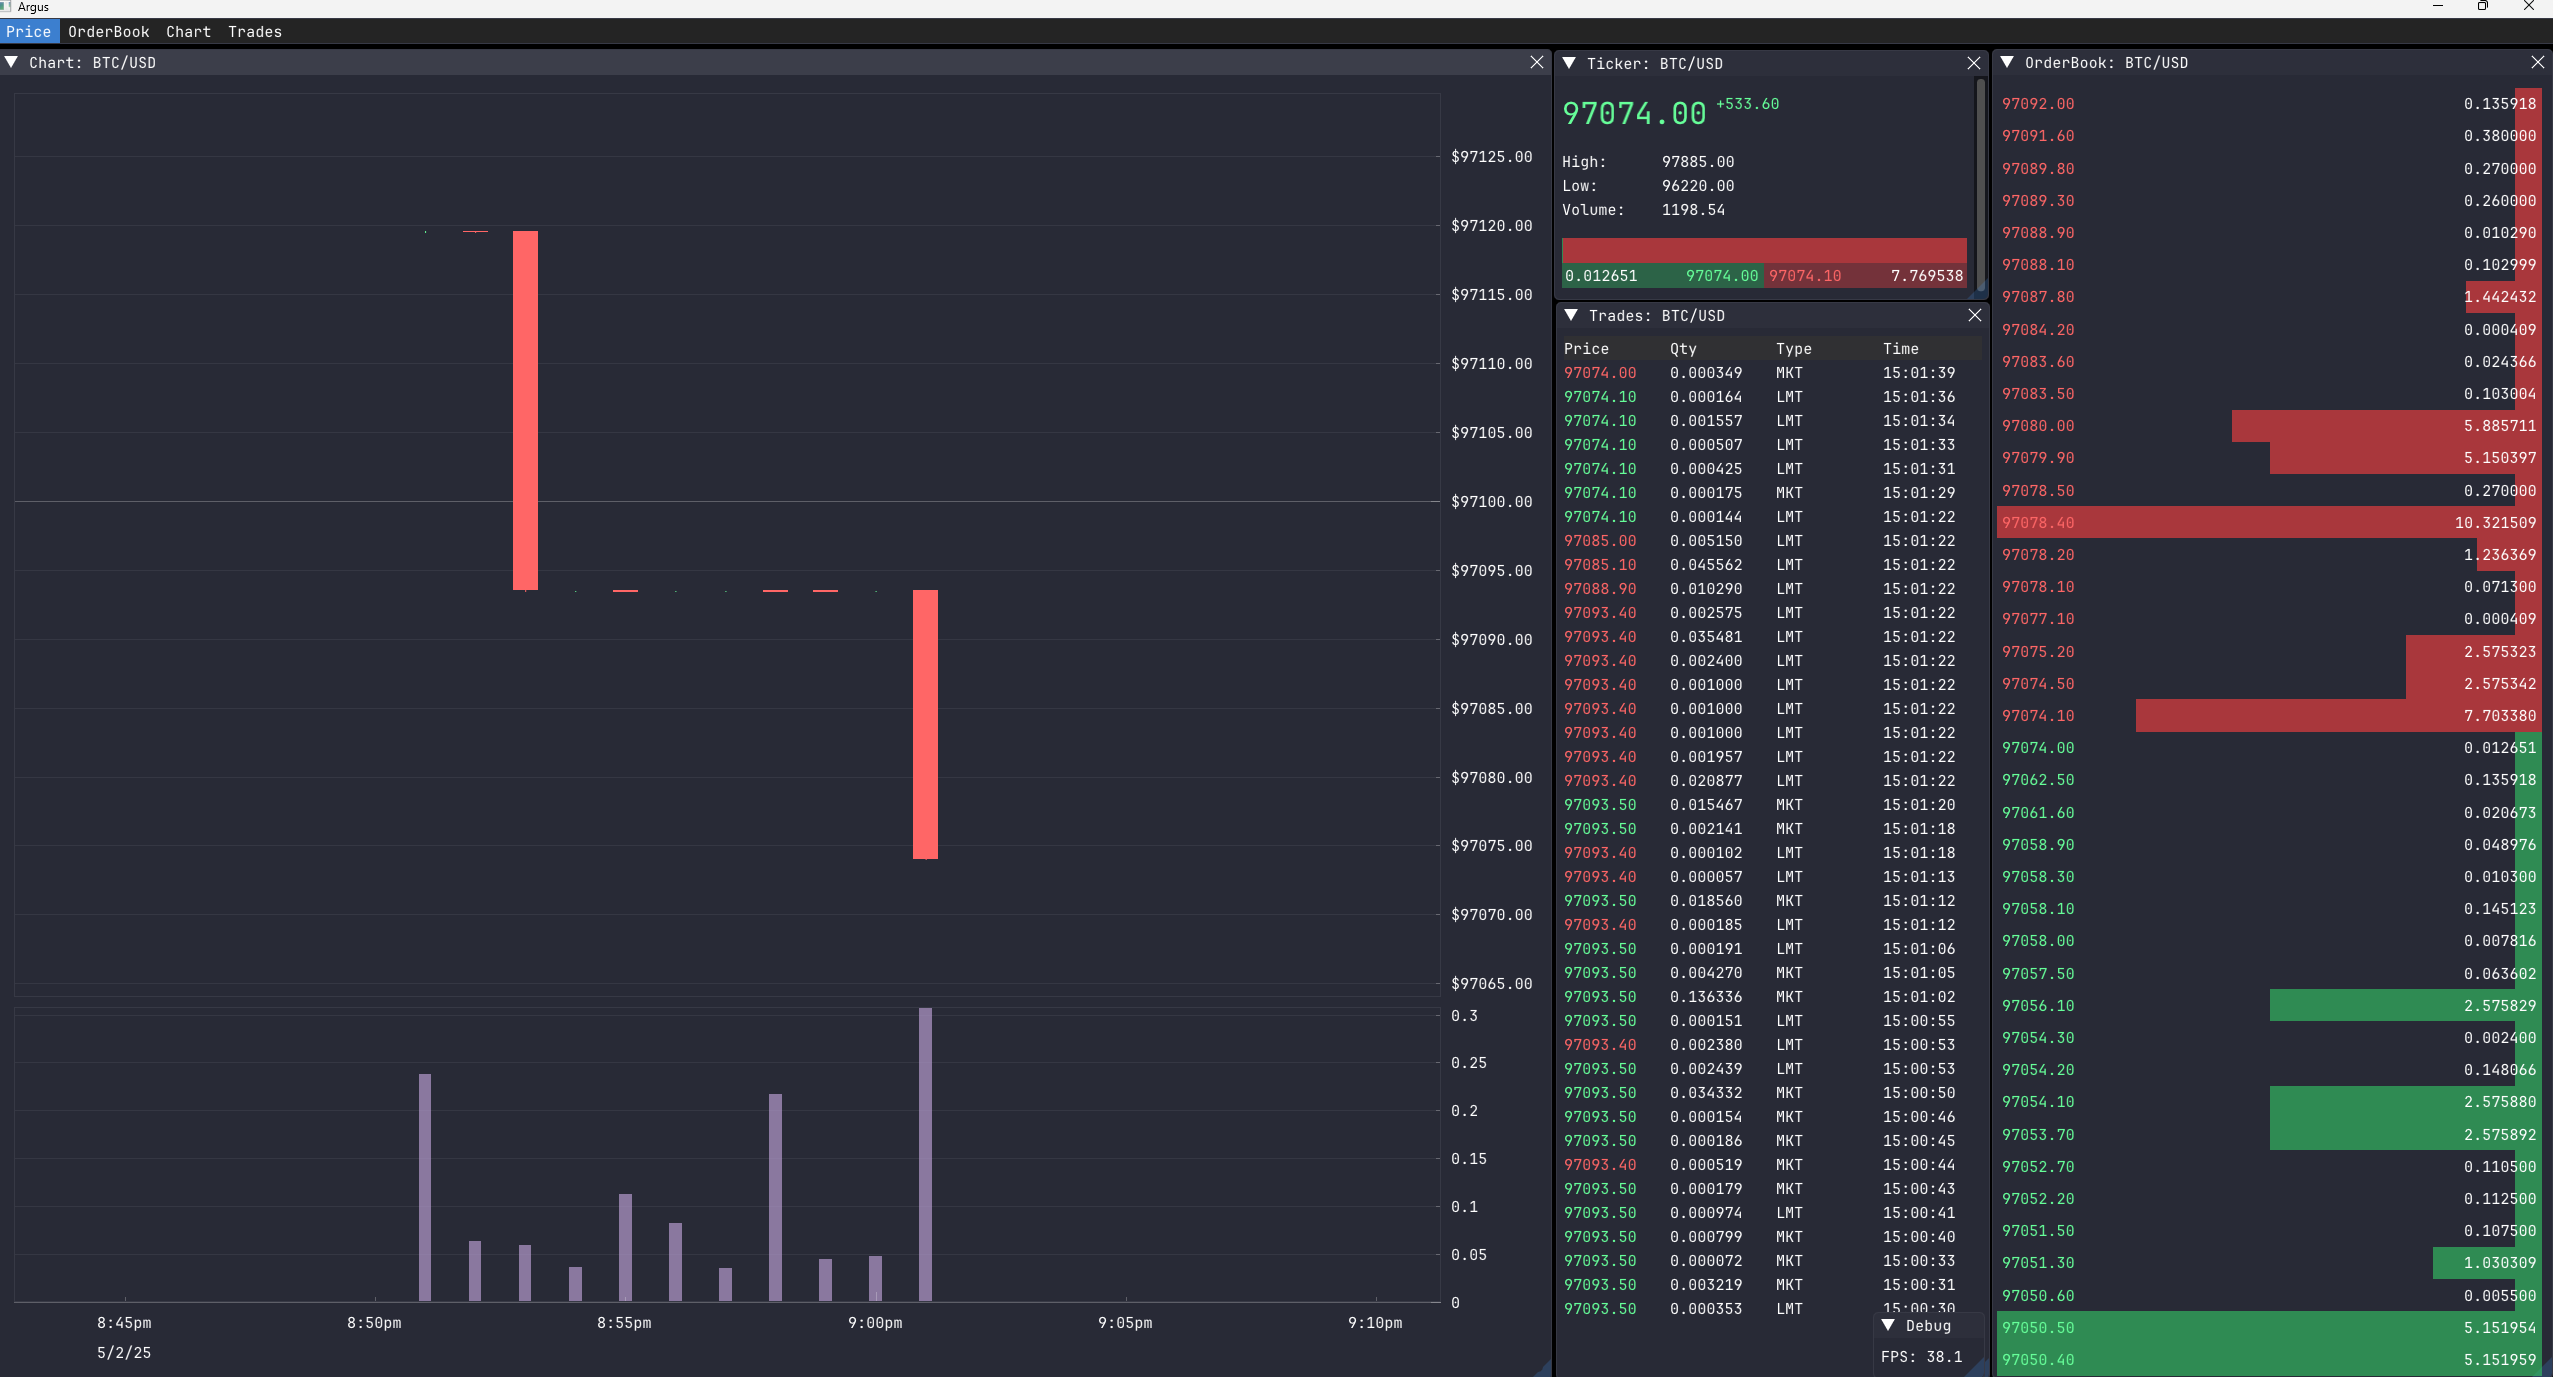
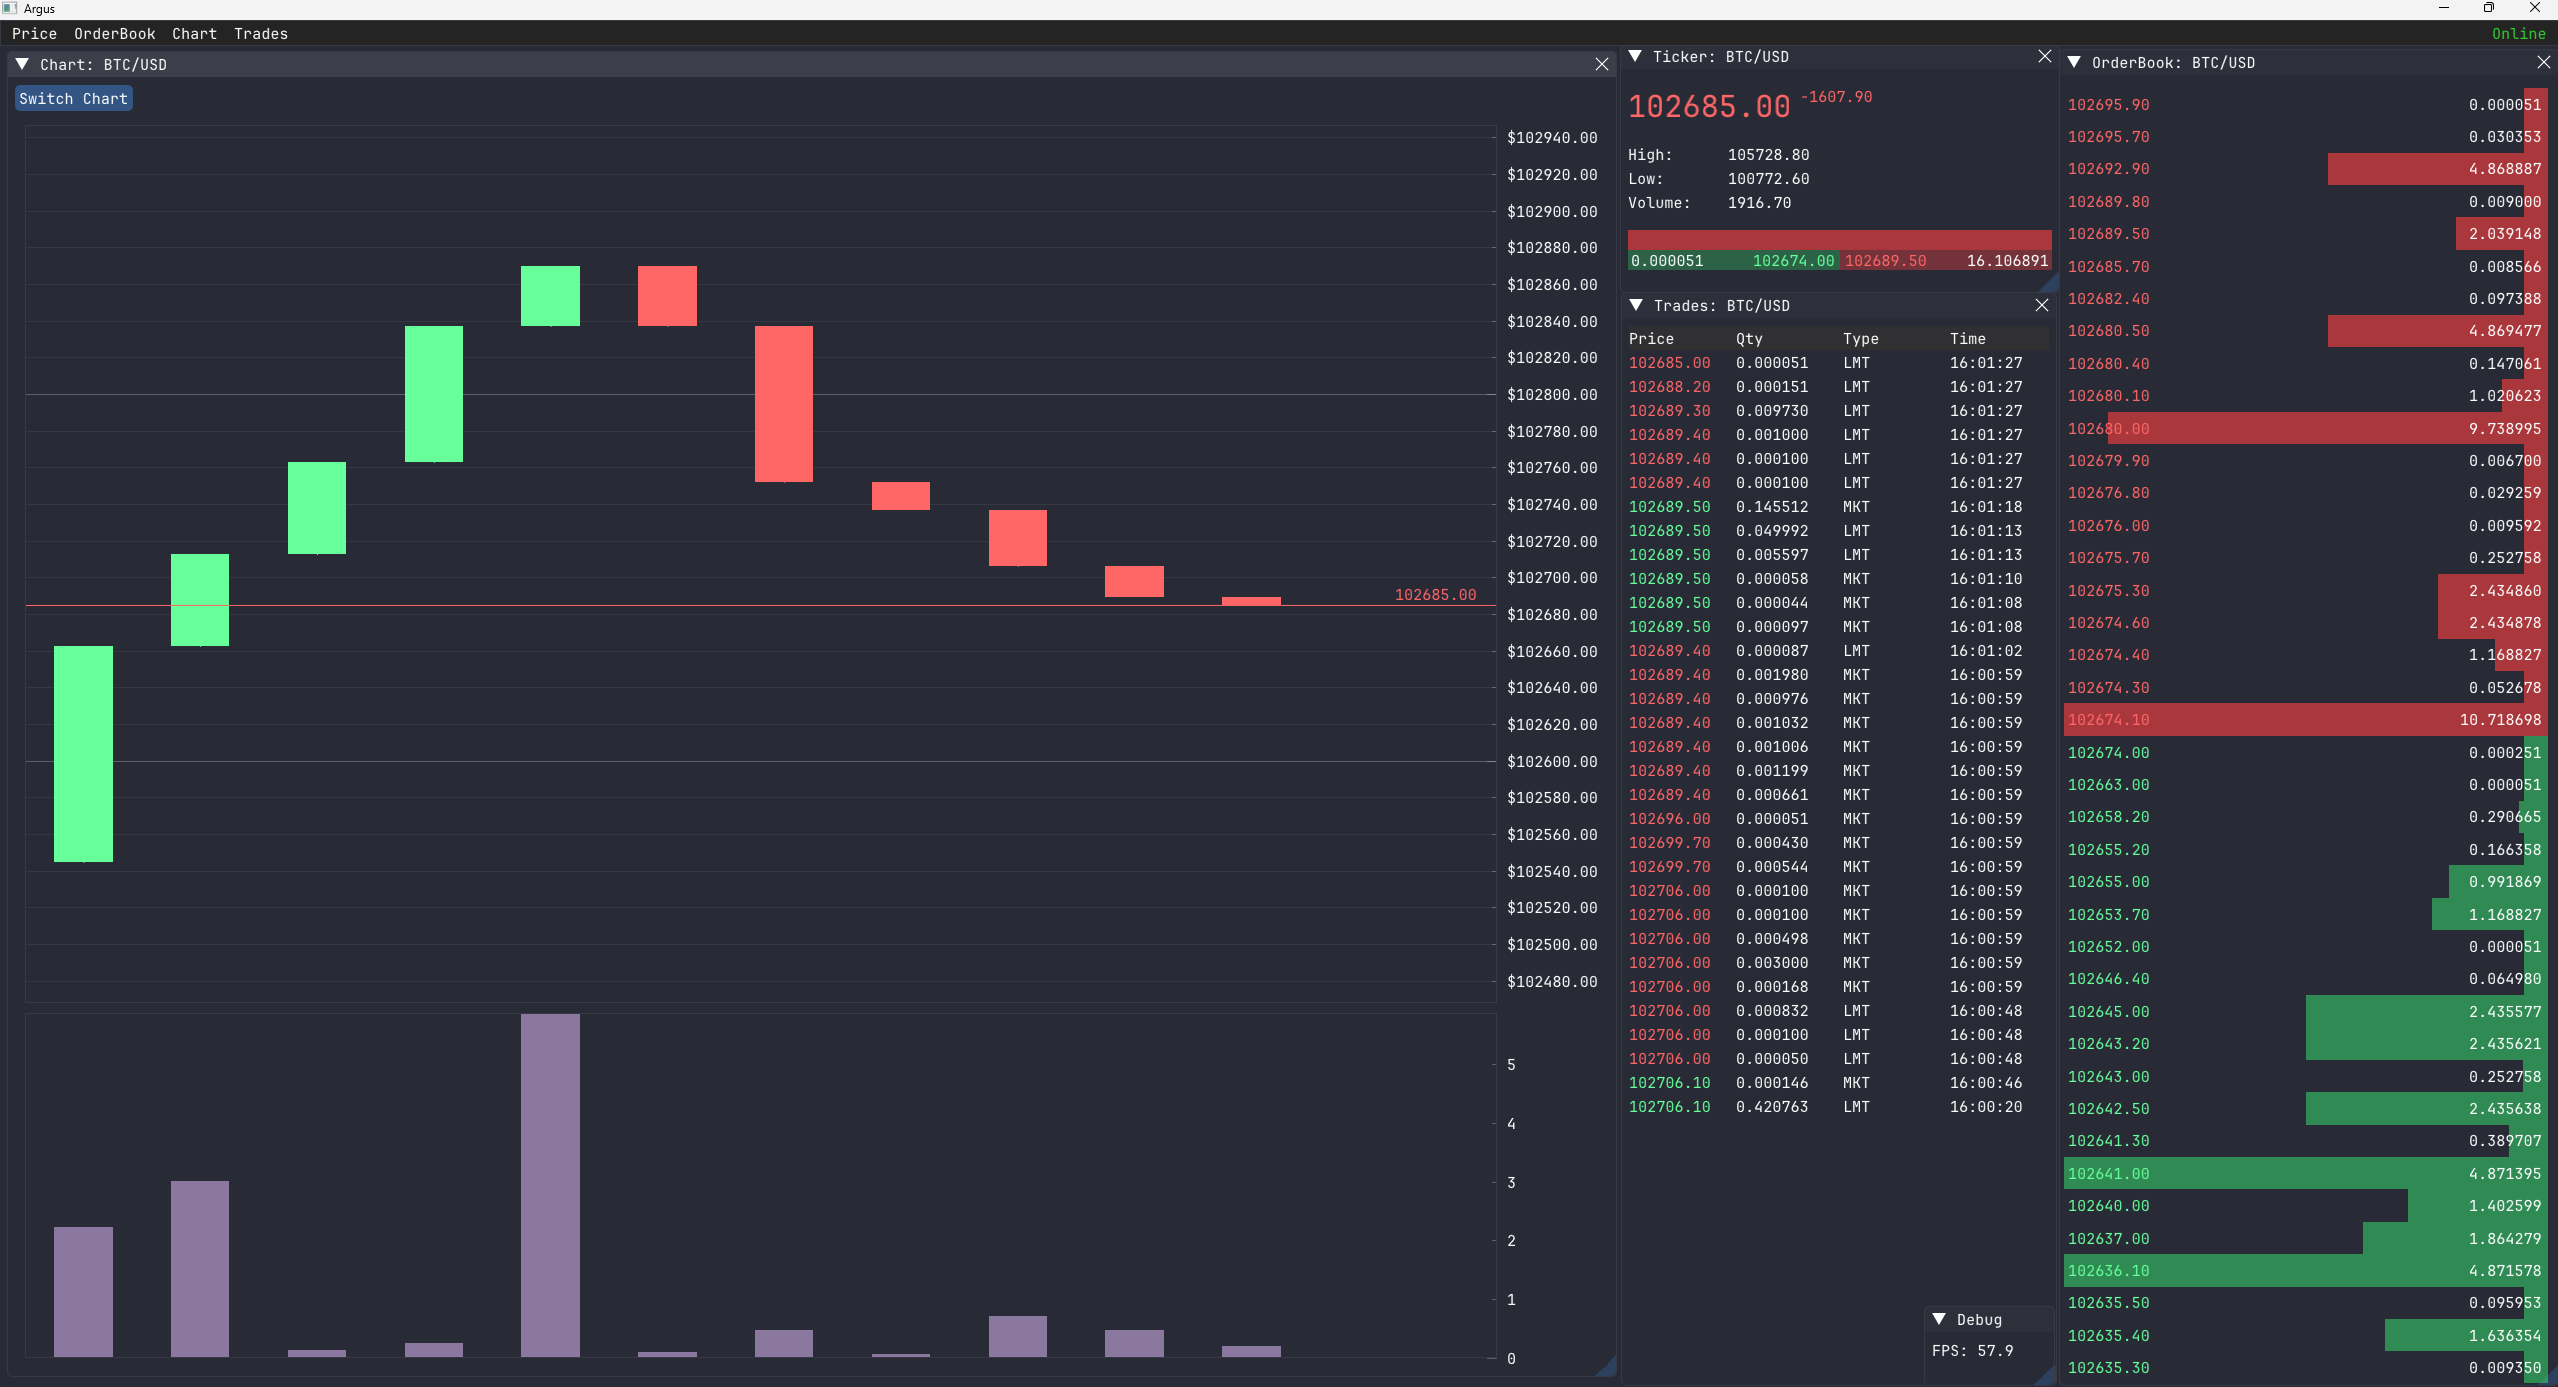
added line chart and user can now toggle between line and candle. also updated image

diff --git a/GUI/src/Chart.cpp b/GUI/src/Chart.cpp
@@ -37,6 +37,88 @@ void Chart::draw() {
 
   ImGui::SetNextWindowSize(ImVec2(800, 690), ImGuiCond_FirstUseEver);
   ImGui::Begin(window_name.c_str(), &show);
+  if (ImGui::Button("Switch View")) {
+    show_candles = (show_candles == true) ? false : true;
+  }
+
+  if (show_candles) {
+    drawCandles();
+  } else {
+    drawLine();
+  }
+  ImGui::End();
+}
+
+void Chart::drawLine() {
+  std::vector<double> price_y(candles.size(), 0);
+  std::vector<double> volume_y(candles.size(), 0);
+  std::vector<double> time_x(candles.size(), 0);
+
+  double width = .25;
+  double half_width = width;
+  half_width = (candles.size() > 1) ? ((candles.begin()->first - std::next(candles.begin(), 1)->first) * width) : width;
+
+  int index = 0;
+  for (const auto&[time, candle] : candles) {
+    price_y[index] = candle.close;
+    volume_y[index] = candle.volume;
+    time_x[index] = time;
+    index++; 
+  }
+
+  if (ImPlot::BeginSubplots("##Stocks", 2, 1, ImVec2(-1,-1),ImPlotSubplotFlags_LinkCols | ImPlotSubplotFlags_NoTitle, ratios)) {
+
+    ImPlotStyle& style = ImPlot::GetStyle();
+    style.Colors[ImPlotCol_PlotBg] = background_color;
+    style.Colors[ImPlotCol_Crosshairs] = ImVec4(1,1,1,0.5f);
+
+    style.PlotPadding = ImVec2(5, 5);
+    style.LabelPadding = ImVec2(10, 10);
+    style.LegendPadding = ImVec2(0, 0);
+    style.LegendInnerPadding = ImVec2(0, 0);
+    style.MousePosPadding = ImVec2(0, 0);
+    style.AnnotationPadding = ImVec2(0, 0);
+    style.FitPadding = ImVec2(0, 0);
+
+    if (ImPlot::BeginPlot("##Graph", ImVec2(-1,-1), ImPlotFlags_NoFrame | ImPlotFlags_Crosshairs)) {
+
+      ImDrawList* draw_list = ImPlot::GetPlotDrawList();
+      ImPlot::SetupAxes(0,0,ImPlotAxisFlags_NoGridLines | ImPlotAxisFlags_NoTickMarks | ImPlotAxisFlags_NoTickLabels, ImPlotAxisFlags_Opposite);
+
+      ImPlot::SetupAxisLimits(ImAxis_X1, time_x[0], time_x.back());
+      ImPlot::SetupAxisFormat(ImAxis_Y1, "$%.2f");
+      ImPlot::SetupAxisFormat(ImAxis_X1, TimeFormatter);
+
+      if (ImPlot::BeginItem("##Price Chart")) {
+        ImVec4 fill_color = ImVec4(0.2f, 0.4f, 1.0f, 0.1f);
+        ImPlot::PushStyleColor(ImPlotCol_Fill, fill_color);
+        ImPlot::PlotLine("##Line Chart", time_x.data(), price_y.data(), price_y.size());
+        ImPlot::PlotShaded("##Shaded Chart", time_x.data(), price_y.data(), price_y.size(), -INFINITY);
+        ImPlot::PopStyleColor();
+        ImPlot::EndItem();
+      }
+      
+      ImPlot::EndPlot();
+    }
+
+    if (ImPlot::BeginPlot("##Volume Plot", ImVec2(-1,-1), ImPlotFlags_Crosshairs)) {
+      ImPlot::SetupAxis(ImAxis_X1, nullptr, ImPlotAxisFlags_NoGridLines | ImPlotAxisFlags_RangeFit | ImPlotAxisFlags_NoTickMarks | ImPlotAxisFlags_NoTickLabels);
+      ImPlot::SetupAxis(ImAxis_Y1, nullptr, ImPlotAxisFlags_NoGridLines |  ImPlotAxisFlags_RangeFit | ImPlotAxisFlags_Opposite);
+
+      ImPlot::SetupAxisFormat(ImAxis_X1, TimeFormatter);
+      ImPlot::SetupAxisLimits(ImAxis_X1, time_x[0], time_x.back() + 5);
+
+      ImPlot::SetNextFillStyle(ImVec4(0.7f, 0.6f, 0.8f, 0.7f));
+      ImPlot::PlotBars("##", time_x.data(), volume_y.data(), time_x.size(), half_width*2);
+      ImPlot::EndPlot();
+    }
+
+    ImPlot::EndSubplots();
+  }
+
+}
+
+void Chart::drawCandles() {
 
   double width = .25;
   double half_width = width;
@@ -63,7 +145,7 @@ void Chart::draw() {
     if (ImPlot::BeginPlot("##Graph", ImVec2(-1,-1), ImPlotFlags_NoFrame | ImPlotFlags_Crosshairs)) {
 
       ImDrawList* draw_list = ImPlot::GetPlotDrawList();
-      ImPlot::SetupAxes(0,0,ImPlotAxisFlags_NoGridLines | ImPlotAxisFlags_NoTickMarks | ImPlotAxisFlags_NoTickLabels, ImPlotAxisFlags_AutoFit | ImPlotAxisFlags_Opposite);
+      ImPlot::SetupAxes(0,0,ImPlotAxisFlags_NoGridLines | ImPlotAxisFlags_NoTickMarks | ImPlotAxisFlags_NoTickLabels, ImPlotAxisFlags_Opposite);
 
       ImPlot::SetupAxisLimits(ImAxis_X1, candles.begin()->first, std::prev(candles.end())->first);
       ImPlot::SetupAxisFormat(ImAxis_Y1, "$%.2f");
@@ -136,5 +218,6 @@ void Chart::draw() {
 
     ImPlot::EndSubplots();
   }
-  ImGui::End();
 }
+
+

diff --git a/GUI/include/Chart.hpp b/GUI/include/Chart.hpp
@@ -22,10 +22,13 @@ class Chart : public Widget {
     void draw() override;
   private:
     void updateCandles();
+    void drawCandles();
+    void drawLine();
 
     std::string symbol;
     const std::string channel = "ohlc"; 
     float ratios[2] = {2.5, 1};
+    bool show_candles = true;
 
     const ImU32 green = IM_COL32(102, 255, 153, 255);
     const ImU32 red = IM_COL32(255, 102, 102, 255);
